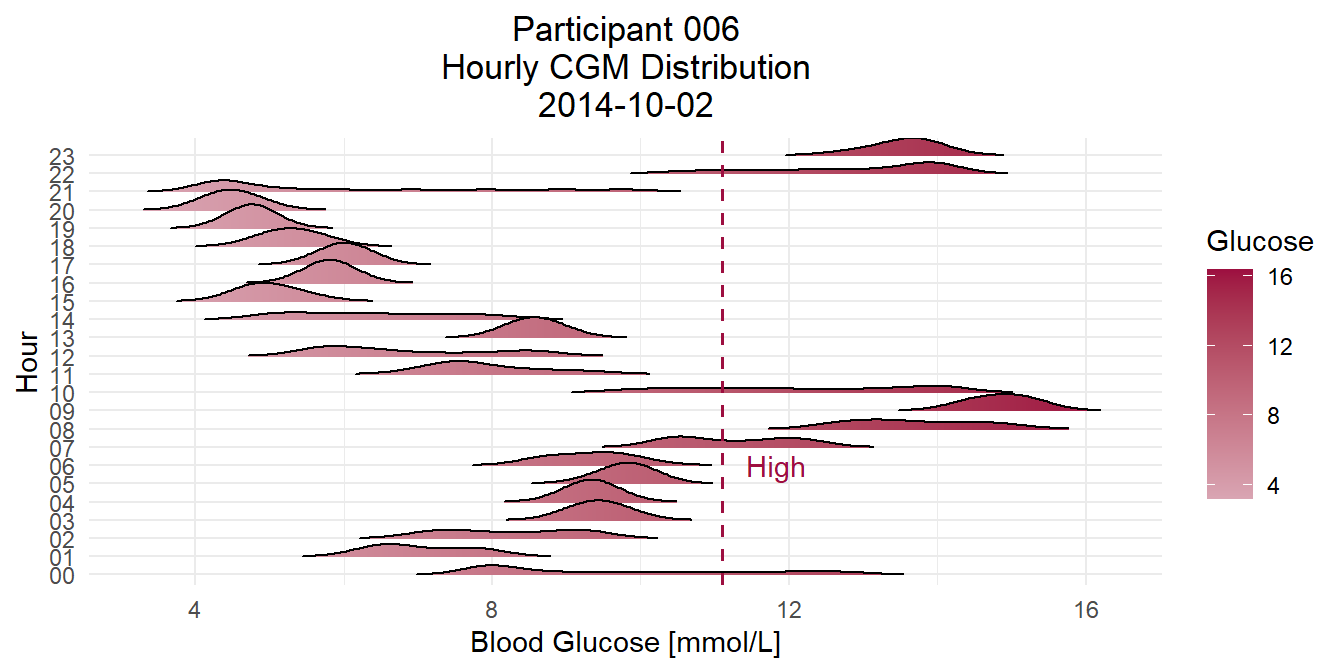
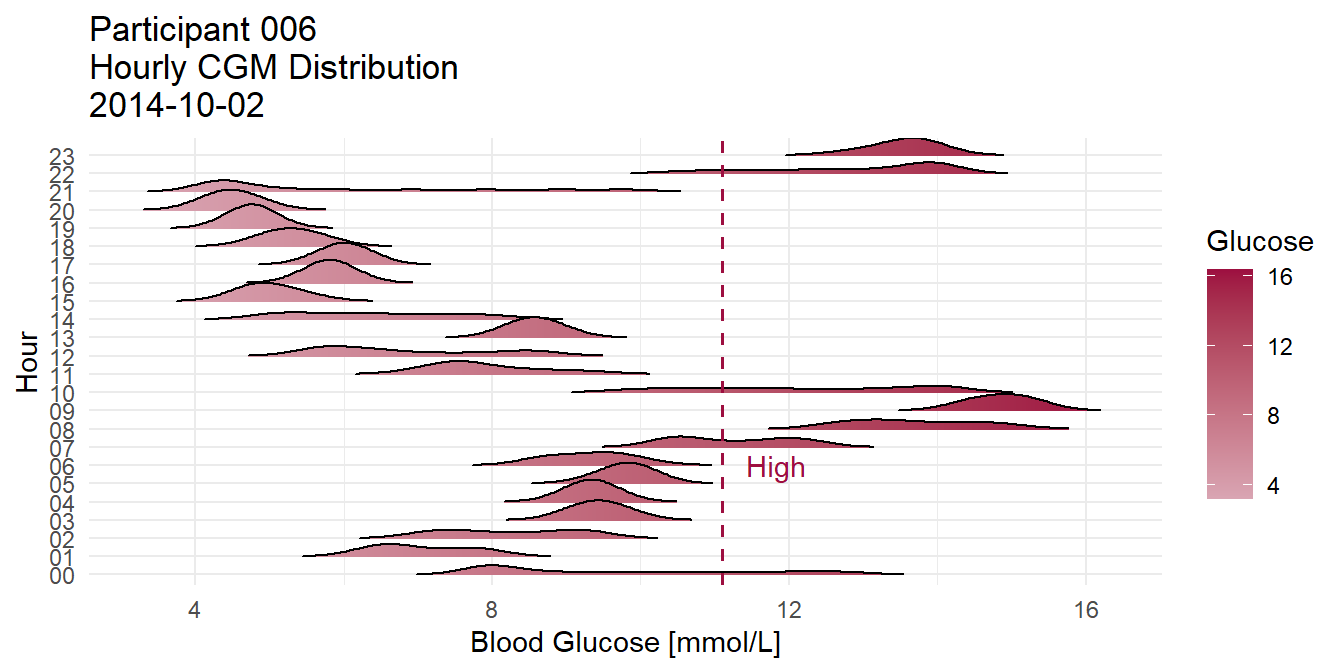
fixed text, titles, breaks

Changed region(s): [[0.0625, 0.0, 0.5938, 0.1875]]

diff --git a/content/post/2020-12-30-data-is-data-are-data-vis/index.html b/content/post/2020-12-30-data-is-data-are-data-vis/index.html
@@ -22,122 +22,45 @@ output:
 <script src="index_files/wordcloud2-binding/wordcloud2.js"></script>
 
 
-<p>This is not be my take on the ‘Data is plural’ vs ‘Data is singular-ish’ debate, instead this is a lighthearted visual exploration of both sides of the argument. This is also my excuse to fill a post with pretty graphs.</p>
-<p>The data set used for the following examples is from <a href="https://www.sciencedirect.com/science/article/pii/S2352914818301059?via%3Dihub#fig4">the open D1NAMO dataset: A multi-modal dataset for research on non-invasive type 1 diabetes management</a> by Fabien Dubosson et al. Data from the study is indexed in this <a href="https://github.com/irinagain/Awesome-CGM/wiki/Dubosson-(2018)">GitHub repo</a>. Dubosson’s study followed 29 individuals, 9 of which with type-1 diabetes. Continuous glucose monitoring was done with IPro2 Professional CGM Sensor for the 9 individuals with type-1 diabetes. The 20 non-diabetic group used the Bayer Contour TX glucose meter. All 29 individuals also wore a Zephyr BioHarness 3 which tracked ECG rhythm from lead I (measuring electrical vectors from right to left across the heart), they also wore an accelerometer and a pressure sensor to measure respiration rate.</p>
+<p>This is my take on the ‘Data is’ vs ‘Data are’ debate, and an excuse to try out different graphs.</p>
+<p>The data set used for the following examples is from <a href="https://www.sciencedirect.com/science/article/pii/S2352914818301059?via%3Dihub">the open D1NAMO dataset: A multi-modal dataset for research on non-invasive type 1 diabetes management</a> by Fabien Dubosson et al. Data from the study is indexed in this <a href="https://github.com/irinagain/Awesome-CGM/wiki/Dubosson-(2018)">GitHub repo</a>. Dubosson’s study followed 29 individuals, 9 of which with type-1 diabetes, for 4 days. Continuous glucose monitoring was done with IPro2 Professional CGM Sensor for the 9 individuals with type-1 diabetes. All 29 individuals wore a Zephyr BioHarness 3 which tracked ECG rhythm from lead I (measuring electrical vectors across the heart), they also wore a pressure sensor to measure respiration rate. During the study participants submitted photos of their meals to dietitians who annotated the foods present and determined the health quality of the meals.</p>
 <p></br><br />
 </br></p>
 <hr />
 <div id="packages-used" class="section level2">
 <h2>Packages Used</h2>
-<pre class="r"><code>library(tidyverse); library(ggplot2); library(magrittr);</code></pre>
-<pre><code>## -- Attaching packages --------------------------------------- tidyverse 1.3.0 --</code></pre>
-<pre><code>## v ggplot2 3.3.3     v purrr   0.3.4
-## v tibble  3.0.4     v dplyr   1.0.2
-## v tidyr   1.1.2     v stringr 1.4.0
-## v readr   1.4.0     v forcats 0.5.0</code></pre>
-<pre><code>## -- Conflicts ------------------------------------------ tidyverse_conflicts() --
-## x dplyr::filter() masks stats::filter()
-## x dplyr::lag()    masks stats::lag()</code></pre>
-<pre><code>## 
-## Attaching package: &#39;magrittr&#39;</code></pre>
-<pre><code>## The following object is masked from &#39;package:purrr&#39;:
-## 
-##     set_names</code></pre>
-<pre><code>## The following object is masked from &#39;package:tidyr&#39;:
-## 
-##     extract</code></pre>
-<pre class="r"><code>library(stringi); library(hms); library(tidytext)</code></pre>
-</div>
-<div id="loading-data" class="section level2">
-<h2>Loading Data</h2>
-<pre class="r"><code>workingDir &lt;- &quot;C:/Users/seand/OneDrive/Documents/D1NAMO/&quot;
-cohorts &lt;- dir(workingDir)  # diabetes_subset, healthy_subset
-
-glucose_df &lt;- tibble()
-insulin_df &lt;- tibble()
-food_nondiabetic_df &lt;- tibble()
-food_diabetic_df &lt;- tibble()
-sensor_df &lt;- tibble()
-for (cohort in cohorts) {
-  participants &lt;- dir(paste0(workingDir,cohort))
-  tmp_cohort_glucose_df &lt;- tibble()
-  if(stri_cmp_eq(cohort, &quot;diabetes_subset&quot;)){ tmp_cohort_insulin_df &lt;- tibble() }
-  if(stri_cmp_eq(cohort, &quot;diabetes_subset&quot;)){ tmp_cohort_food_diabetic_df &lt;- tibble()
-  } else { tmp_cohort_food_nondiabetic_df &lt;- tibble() }
-  
-  tmp_cohort_sensor_df &lt;- tibble()
-  for (participant in participants) {
-    participant_path &lt;- paste0(workingDir,cohort,&quot;/&quot;,participant)
-    # Gather glucose data
-    glucose_path &lt;- paste0(participant_path,&quot;/glucose.csv&quot;)
-    tmp_participant_glucose_df &lt;- read_csv(glucose_path) %&gt;%
-      cbind(participantID = participant, cohortGroup = cohort)
-    tmp_cohort_glucose_df %&lt;&gt;% rbind(tmp_participant_glucose_df)
-    # Gather insulin data
-    if(stri_cmp_eq(cohort, &quot;diabetes_subset&quot;)){
-      insulin_path &lt;- paste0(participant_path,&quot;/insulin.csv&quot;)
-      tmp_participant_insulin_df &lt;- read_csv(insulin_path) %&gt;%
-        cbind(participantID = participant, cohortGroup = cohort)
-      tmp_cohort_insulin_df %&lt;&gt;% rbind(tmp_participant_insulin_df)
-    }
-    # Gather food data
-    food_path &lt;- paste0(participant_path,&quot;/food.csv&quot;)
-    tmp_participant_food_df &lt;- read_csv(food_path) %&gt;%
-      cbind(participantID = participant, cohortGroup = cohort)
-    if(stri_cmp_eq(cohort, &quot;diabetes_subset&quot;)){
-      tmp_cohort_food_diabetic_df %&lt;&gt;% rbind(tmp_participant_food_df)
-    } else { tmp_cohort_food_nondiabetic_df %&lt;&gt;% rbind(tmp_participant_food_df) }
-    # Gather sensor summary data
-    times_sensor_data &lt;- dir(paste0(participant_path,&quot;/sensor_data&quot;))
-    sensor_summary_paths &lt;- c()
-    for (time in times_sensor_data) {
-      sensor_data &lt;- dir(paste0(participant_path,&quot;/sensor_data/&quot;,time))
-      sensor_summary &lt;- sensor_data[which(stri_detect(sensor_data, fixed = &quot;Summary&quot;))]
-      sensor_summary_paths &lt;- c(sensor_summary_paths, 
-                                paste0(participant_path,&quot;/sensor_data/&quot;,
-                                       time,&quot;/&quot;,sensor_summary))
-    }
-    tmp_participant_sensor_df &lt;- tibble()
-    for (path in sensor_summary_paths) { tmp_participant_sensor_df %&lt;&gt;%
-        rbind(read_csv(path)) }
-    tmp_participant_sensor_df %&lt;&gt;% cbind(participantID = participant, cohortGroup = cohort)
-    tmp_cohort_sensor_df %&lt;&gt;% rbind(tmp_participant_sensor_df)
-  }
-  glucose_df %&lt;&gt;% rbind(tmp_cohort_glucose_df)
-  if(stri_cmp_eq(cohort, &quot;diabetes_subset&quot;)){ insulin_df %&lt;&gt;% rbind(tmp_cohort_insulin_df) }
-  if(stri_cmp_eq(cohort, &quot;diabetes_subset&quot;)){
-    food_diabetic_df %&lt;&gt;% rbind(tmp_cohort_food_diabetic_df)
-  } else { food_nondiabetic_df %&lt;&gt;% rbind(tmp_cohort_food_nondiabetic_df) }
-  sensor_df %&lt;&gt;% rbind(tmp_cohort_sensor_df)
-}
-# make date and time col for sensor_df
-sensor_df %&lt;&gt;% mutate(date=as.Date(stri_extract(Time,regex=&quot;^(\\d{2}/\\d{2}/\\d{4})&quot;),
-                                     format = &quot;%d/%m/%y&quot;),
-                     time=parse_hms(stri_extract(Time,regex=&quot;(\\d{2}:\\d{2}:\\d{2})&quot;))) %&gt;%
-  select(-Time)
-# food_nondiabetic_df$calories has values that should be in $description
-index_cal_desc_swap &lt;- !(stri_detect(food_nondiabetic_df$calories,regex=&quot;^\\d+$&quot;) |
-                          is.na(food_nondiabetic_df$calories))
-food_nondiabetic_df$description[index_cal_desc_swap] &lt;- food_nondiabetic_df$calories[index_cal_desc_swap]
-food_nondiabetic_df$calories[index_cal_desc_swap] &lt;- NA
-rm(tmp_cohort_glucose_df,tmp_participant_glucose_df,tmp_cohort_insulin_df,
-   tmp_participant_insulin_df,tmp_cohort_food_diabetic_df,tmp_participant_food_df,
-   tmp_cohort_food_nondiabetic_df,tmp_cohort_sensor_df,tmp_participant_sensor_df)</code></pre>
+<pre class="r"><code>library(tidyverse); library(ggplot2); library(magrittr);
+library(stringi); library(hms); library(tidytext)</code></pre>
 <pre class="r"><code>colorPalette &lt;- c(&#39;#d9a5b3&#39;, &#39;#c6d7eb&#39;, &#39;#1868ae&#39;, &#39;#9ec1b6&#39;, &#39;#9d0f40&#39;, &#39;#e0dab7&#39;)</code></pre>
-<p>This is the <code>insulin_df</code> data table visualized.</p>
+<p></br>
+</br></p>
+<hr />
+</div>
+<div id="all-data-one-dataum" class="section level2">
+<h2>All data, one dat[(a)(um)]</h2>
+<p>The <code>visdat</code> package is a handy way to visualize all data in a table as a bar graph of sorts. Here is the whole <code>insulin_df</code> data table visualized.</p>
 <pre class="r"><code>library(visdat)
 visdat::vis_dat(insulin_df)</code></pre>
 <p><img src="index_files/figure-html/Visdat-1.png" width="672" /></p>
-<p>While this is a single datum from <code>insulin_df</code>…</p>
+<p></br></p>
+<p>Now, here is a single datum from <code>insulin_df</code>…</p>
 <pre class="r"><code>visdat::vis_dat(insulin_df[14,3])</code></pre>
-<p><img src="index_files/figure-html/Visdatum-1.png" width="672" />
-This single, numeric ‘datum’ on its own has no useful qualities. It may be paired with the time of measurement (<code>insulin_df[14,2]</code>) or the participant which it measured (<code>insulin_df[14,6]</code>) or even compared to some other similar datum from a different observation:</p>
-<pre class="r"><code>insulin_df[24,3]</code></pre>
-<pre><code>## # A tibble: 1 x 1
+<p><img src="index_files/figure-html/Visdatum-1.png" width="672" /></p>
+<p></br></p>
+<p>This single, numeric ‘datum’ on its own has no useful qualities. It may be paired with the time of measurement (22:35:00) or the participant ID (001) or even compared to some other similar datum from a different observation:</p>
+<pre class="r"><code>insulin_df[c(14,24),3]</code></pre>
+<pre><code>## # A tibble: 2 x 1
 ##   fast_insulin
 ##          &lt;dbl&gt;
-## 1            4</code></pre>
-<p>To what extent is this datum unit useful on its own?</p>
+## 1            2
+## 2            4</code></pre>
+<p></br>
+</br></p>
+<hr />
+</div>
+<div id="words" class="section level2">
+<h2>Words</h2>
+<p>To what extent is this datum unit useful on its own? How often is the term ‘datum’ used in the wild? Is ‘datum’ important enough to take up space that the word ‘data’ could fulfill?</p>
 <p>This is a word cloud of most frequent words appearing in participants’ meal descriptions. They are grouped by cohort: diabetic and non-diabetic.</p>
 <pre class="r"><code>library(wordcloud2)
 # https://cran.r-project.org/web/packages/wordcloud2/vignettes/wordcloud.html
@@ -157,15 +80,25 @@ topFoods(food_diabetic_df, colorPalette[3], colorPalette[6])</code></pre>
 <pre class="r"><code>topFoods(food_nondiabetic_df, colorPalette[5], colorPalette[4])</code></pre>
 <div id="htmlwidget-2" style="width:672px;height:480px;" class="wordcloud2 html-widget"></div>
 <script type="application/json" data-for="htmlwidget-2">{"x":{"word":["bread","chocolate","coffee","milk","cheese","cake","salad","tomatoes","carrots","juice","cereal","rice","butter","chicken","lettuce","pasta","orange","banana","ham","cookie","green","yogurt","beans","potatoes","tomato","cream","pizza","sauce","soup","apple","sugar","sandwich","bar","cookies","fried","meat","red","salmon","tea","jam","oil","brocoli","grapes","lasagna","mandarin","pepper","toast","crackers","dried","eggs","nuts","strawberry","cous","cucumber","dressing","goat","madeleine","maria","nutella","olive","peas","peppers","proteins","sausage","shaker","vanilla","white","avocado","carbonara","carrot","hamburguer","olives","onions","pork","salami","spinach","abricot","bacon","champignon","chinese","chorizo","coca","corn","cottage","courgette","croissant","egg","endives","frites","glass","hard","panallet","pear","pesto","protein","ricotta","rye","semi","shake","smoke","apricots","beef","cabbage","cola","cornflakes","cup","cupcake","de","delices","energy","fennel","fromage","fruit","fruits","grapefruit","hummus","ice","jambon","ketchup","kiwi","marrons","mini","mozarella","mozzarella","oat","parmesan","plum","smash","spatzli","tomate","tortellinis","wheat","yogourt","almonds","asiago","baked","balisto","ball","beer","beet","blueberries","bolognes","breast","camembert","candies","chalet","chantilly","chou","coffe","coliflower","comercial","courgettes","crougette","croutons","drink","finger","fish","flan","fondue","fret","gnocchis","gnocci","grain","greek","kägi","kat","kinder","kit","kitkat","mandarins","mango","mousse","omelett","pain","pepperswith","philadelphia","pie","pingui","plant","potaotes","rã","radish","roulade","spaguetti","square","squares","steamed","sti","strawberries","surimi","tuna","vinegar","waffle","watercress","à","apéro","artichoke","artichokes","asigao","balls","barre","bean","beers","berliner","beurre","biscuits","black","boiled","bounty","branche","breakfast","brie","cana","céréales","cereall","chestnuts","chickpeas","chili","chips","choucroute","coconut","coverage","cramble","cranberries","creme","crème","crepe","crêpes","curry","dark","delice","dessert","donner","duchess","duchesspotatoes","eclair","filet","financercake","flat","forest","fuet","gratin","gruyer","gruyere","herbs","honey","icecream","information","kagi","kaki","kebab","la","le","letter","limoncello","loaf","loempia","lomo","lorraine","luganiga","machego","madeleines","mais","manchego","mandarine","mashed","matcha","mayonaise","meatballs","mermelade","miel","miso","mix","mixed","natural","noodles","nougat","nuggets","oreo","pancakes","parfait","pâtes","peach","piece","pizzas","pommes","porc","post","potatoe","purée","quiche","quinoa","raspberry","raviolis","raw","roesti","rouge","salty","sausages","seaweed","slice","slide","snack","snacks","soda","spaetzle","strudel","sweet","tartlet","tasting","tiramisu","tortelliniswith","tortillas","vegetarian","vermicelles","waffel","wakame","wellington","whey","workout","yellow"],"freq":[53,43,43,39,34,24,22,22,21,21,19,19,18,18,18,18,17,16,16,15,15,15,14,14,14,13,13,13,13,12,12,11,10,10,10,10,10,10,10,9,9,8,8,8,8,8,8,7,7,7,7,7,6,6,6,6,6,6,6,6,6,6,6,6,6,6,6,5,5,5,5,5,5,5,5,5,4,4,4,4,4,4,4,4,4,4,4,4,4,4,4,4,4,4,4,4,4,4,4,4,3,3,3,3,3,3,3,3,3,3,3,3,3,3,3,3,3,3,3,3,3,3,3,3,3,3,3,3,3,3,3,3,3,2,2,2,2,2,2,2,2,2,2,2,2,2,2,2,2,2,2,2,2,2,2,2,2,2,2,2,2,2,2,2,2,2,2,2,2,2,2,2,2,2,2,2,2,2,2,2,2,2,2,2,2,2,2,2,2,2,2,2,2,2,1,1,1,1,1,1,1,1,1,1,1,1,1,1,1,1,1,1,1,1,1,1,1,1,1,1,1,1,1,1,1,1,1,1,1,1,1,1,1,1,1,1,1,1,1,1,1,1,1,1,1,1,1,1,1,1,1,1,1,1,1,1,1,1,1,1,1,1,1,1,1,1,1,1,1,1,1,1,1,1,1,1,1,1,1,1,1,1,1,1,1,1,1,1,1,1,1,1,1,1,1,1,1,1,1,1,1,1,1,1,1,1,1,1,1,1,1,1,1,1,1,1,1,1,1,1,1],"fontFamily":"Segoe UI","fontWeight":"bold","color":["#9d0f40","#9d0f40","#9d0f40","#9d0f40","#9d0f40","#9d0f40","#9d0f40","#9d0f40","#9d0f40","#9d0f40","#9ec1b6","#9ec1b6","#9ec1b6","#9ec1b6","#9ec1b6","#9ec1b6","#9ec1b6","#9ec1b6","#9ec1b6","#9ec1b6","#9ec1b6","#9ec1b6","#9ec1b6","#9ec1b6","#9ec1b6","#9ec1b6","#9ec1b6","#9ec1b6","#9ec1b6","#9ec1b6","#9ec1b6","#9ec1b6","#9ec1b6","#9ec1b6","#9ec1b6","#9ec1b6","#9ec1b6","#9ec1b6","#9ec1b6","#9ec1b6","#9ec1b6","#9ec1b6","#9ec1b6","#9ec1b6","#9ec1b6","#9ec1b6","#9ec1b6","#9ec1b6","#9ec1b6","#9ec1b6","#9ec1b6","#9ec1b6","#9ec1b6","#9ec1b6","#9ec1b6","#9ec1b6","#9ec1b6","#9ec1b6","#9ec1b6","#9ec1b6","#9ec1b6","#9ec1b6","#9ec1b6","#9ec1b6","#9ec1b6","#9ec1b6","#9ec1b6","#9ec1b6","#9ec1b6","#9ec1b6","#9ec1b6","#9ec1b6","#9ec1b6","#9ec1b6","#9ec1b6","#9ec1b6","#9ec1b6","#9ec1b6","#9ec1b6","#9ec1b6","#9ec1b6","#9ec1b6","#9ec1b6","#9ec1b6","#9ec1b6","#9ec1b6","#9ec1b6","#9ec1b6","#9ec1b6","#9ec1b6","#9ec1b6","#9ec1b6","#9ec1b6","#9ec1b6","#9ec1b6","#9ec1b6","#9ec1b6","#9ec1b6","#9ec1b6","#9ec1b6","#9ec1b6","#9ec1b6","#9ec1b6","#9ec1b6","#9ec1b6","#9ec1b6","#9ec1b6","#9ec1b6","#9ec1b6","#9ec1b6","#9ec1b6","#9ec1b6","#9ec1b6","#9ec1b6","#9ec1b6","#9ec1b6","#9ec1b6","#9ec1b6","#9ec1b6","#9ec1b6","#9ec1b6","#9ec1b6","#9ec1b6","#9ec1b6","#9ec1b6","#9ec1b6","#9ec1b6","#9ec1b6","#9ec1b6","#9ec1b6","#9ec1b6","#9ec1b6","#9ec1b6","#9ec1b6","#9ec1b6","#9ec1b6","#9ec1b6","#9ec1b6","#9ec1b6","#9ec1b6","#9ec1b6","#9ec1b6","#9ec1b6","#9ec1b6","#9ec1b6","#9ec1b6","#9ec1b6","#9ec1b6","#9ec1b6","#9ec1b6","#9ec1b6","#9ec1b6","#9ec1b6","#9ec1b6","#9ec1b6","#9ec1b6","#9ec1b6","#9ec1b6","#9ec1b6","#9ec1b6","#9ec1b6","#9ec1b6","#9ec1b6","#9ec1b6","#9ec1b6","#9ec1b6","#9ec1b6","#9ec1b6","#9ec1b6","#9ec1b6","#9ec1b6","#9ec1b6","#9ec1b6","#9ec1b6","#9ec1b6","#9ec1b6","#9ec1b6","#9ec1b6","#9ec1b6","#9ec1b6","#9ec1b6","#9ec1b6","#9ec1b6","#9ec1b6","#9ec1b6","#9ec1b6","#9ec1b6","#9ec1b6","#9ec1b6","#9ec1b6","#9ec1b6","#9ec1b6","#9ec1b6","#9ec1b6","#9ec1b6","#9ec1b6","#9ec1b6","#9ec1b6","#9ec1b6","#9ec1b6","#9ec1b6","#9ec1b6","#9ec1b6","#9ec1b6","#9ec1b6","#9ec1b6","#9ec1b6","#9ec1b6","#9ec1b6","#9ec1b6","#9ec1b6","#9ec1b6","#9ec1b6","#9ec1b6","#9ec1b6","#9ec1b6","#9ec1b6","#9ec1b6","#9ec1b6","#9ec1b6","#9ec1b6","#9ec1b6","#9ec1b6","#9ec1b6","#9ec1b6","#9ec1b6","#9ec1b6","#9ec1b6","#9ec1b6","#9ec1b6","#9ec1b6","#9ec1b6","#9ec1b6","#9ec1b6","#9ec1b6","#9ec1b6","#9ec1b6","#9ec1b6","#9ec1b6","#9ec1b6","#9ec1b6","#9ec1b6","#9ec1b6","#9ec1b6","#9ec1b6","#9ec1b6","#9ec1b6","#9ec1b6","#9ec1b6","#9ec1b6","#9ec1b6","#9ec1b6","#9ec1b6","#9ec1b6","#9ec1b6","#9ec1b6","#9ec1b6","#9ec1b6","#9ec1b6","#9ec1b6","#9ec1b6","#9ec1b6","#9ec1b6","#9ec1b6","#9ec1b6","#9ec1b6","#9ec1b6","#9ec1b6","#9ec1b6","#9ec1b6","#9ec1b6","#9ec1b6","#9ec1b6","#9ec1b6","#9ec1b6","#9ec1b6","#9ec1b6","#9ec1b6","#9ec1b6","#9ec1b6","#9ec1b6","#9ec1b6","#9ec1b6","#9ec1b6","#9ec1b6","#9ec1b6","#9ec1b6","#9ec1b6","#9ec1b6","#9ec1b6","#9ec1b6","#9ec1b6","#9ec1b6","#9ec1b6","#9ec1b6","#9ec1b6","#9ec1b6","#9ec1b6","#9ec1b6","#9ec1b6","#9ec1b6","#9ec1b6","#9ec1b6","#9ec1b6","#9ec1b6","#9ec1b6","#9ec1b6","#9ec1b6","#9ec1b6","#9ec1b6","#9ec1b6","#9ec1b6","#9ec1b6","#9ec1b6","#9ec1b6","#9ec1b6","#9ec1b6","#9ec1b6","#9ec1b6","#9ec1b6","#9ec1b6"],"minSize":0,"weightFactor":3.39622641509434,"backgroundColor":"white","gridSize":0,"minRotation":-0.785398163397448,"maxRotation":0.785398163397448,"shuffle":true,"rotateRatio":0.4,"shape":"circle","ellipticity":0.65,"figBase64":null,"hover":null},"evals":[],"jsHooks":[]}</script>
+<p></br>
+&lt;/br?</p>
+<hr />
 </div>
 <div id="lingva-latina" class="section level2">
 <h2>LINGVA LATINA</h2>
-<p>Speaking of words, one may argue to use data/datum over data/data by citing Latin grammar rules for second-declension neuter nouns. Using data/datum in the <a href="https://classics.osu.edu/Undergraduate-Studies/Latin-Program/Grammar/Cases/nominative-case">nominative</a> or <a href="https://classics.osu.edu/Undergraduate-Studies/Latin-Program/Grammar/Cases/accusative-case">accusative</a> case would make <a href="https://www.poetryintranslation.com/PITBR/Latin/HoraceSatiresBkISatX.php#anchor_Toc98155847">Horace proud</a> (or <a href="https://classics.osu.edu/Undergraduate-Studies/Latin-Program/Grammar/Cases/latin-case">vocative</a>, assuming you talk to your data). But what of the <a href="https://classics.osu.edu/Undergraduate-Studies/Latin-Program/Grammar/Cases/genitive-case">genative</a> or the <a href="https://classics.osu.edu/Undergraduate-Studies/Latin-Program/Grammar/Cases/ablative-case-latin">ablative</a> cases? Is this rule the same for all of my datī or just one of my datōrum? Does one also gather information from datō or a single datīs? Is this an exaggeration? I prefer to leave no hair unsplit, if it is my vocation to split them.</p>
+<p>Speaking of words, one may argue to use data/datum over data/data by citing Latin grammar rules for second-declension neuter nouns. Using data/datum correctly in the <a href="https://classics.osu.edu/Undergraduate-Studies/Latin-Program/Grammar/Cases/nominative-case">nominative</a> or <a href="https://classics.osu.edu/Undergraduate-Studies/Latin-Program/Grammar/Cases/accusative-case">accusative</a> case would make <a href="https://www.poetryintranslation.com/PITBR/Latin/HoraceSatiresBkISatX.php#anchor_Toc98155847">Horace proud</a> (or <a href="https://classics.osu.edu/Undergraduate-Studies/Latin-Program/Grammar/Cases/latin-case">vocative</a>, assuming you talk to your data). But what of the <a href="https://classics.osu.edu/Undergraduate-Studies/Latin-Program/Grammar/Cases/genitive-case">genative</a> or the <a href="https://classics.osu.edu/Undergraduate-Studies/Latin-Program/Grammar/Cases/ablative-case-latin">ablative</a> cases? Is this rule the same for all of my datī or just one of my datōrum? Does one also gather information from datō or a single datīs?<br />
+Is this an exaggeration of the Latin argument? I prefer to leave no hair unsplit, if it is my vocation to split them.</p>
 <p>The Latin argument was a fun way to reminisce back to my high school Latin classes, however I think the most damning argument lies in the English language. Specifically ‘Academic English’, the Dr. Frankenstein of ghastly words. Consider <a href="https://www.maa.org/press/periodicals/convergence/math-origins-eigenvectors-and-eigenvalues">eigenvalue</a>, <a href="https://en.wiktionary.org/wiki/neurotransmitter">neurotransmitter</a>, <a href="https://www.thefreedictionary.com/words-containing-ology">Sociology</a>, <a href="https://www.merriam-webster.com/words-at-play/the-many-plurals-of-octopus-octopi-octopuses-octopodes">octopus</a> and <a href="https://en.wikipedia.org/wiki/Hybrid_word">many more</a>. As a word, data has been claimed by English. As English speakers, it is up to us to use data/datum however we please until a consensus is reached.</p>
+<p></br>
+</br></p>
+<hr />
+</div>
+<div id="tf-idf" class="section level2">
+<h2>TF-IDF</h2>
 <p>But what do individual words really mean? Out of the context of a sentence, do they tell use anything?
-Term Frequency (TF) and Inverse Document Frequency (IDF) are simple statistics that help illuminate which words are most specific to certain documents. TF is straight forward, the total number of times a term appears divided by the number of unique terms. IDF is the number of documents divided by the number of documents in which each term appears, usually this proportion is log or ln scaled. For example, if we are looking at 5 essays and we want to find the IDF of “potato”, and we know that the term “potato” appears in 3 of the 5 essays:
-<span class="math display">\[IDF(&quot;potato&quot;) = ln(numberOfDocs / numberOfDocsWithPotato) = ln(5/3)\]</span></p>
-<p>Once each terms’ TF and IDF are calculated, they are multiplied together to make a weight or score of how specific each term is, compared to the rest of the terms. A term like “potato” is rather specific, so it should have a higher TF-IDF than the term “and”.</p>
+Term Frequency (TF) and Inverse Document Frequency (IDF) are simple statistics that help illuminate which words are most specific to certain documents. TF is straight forward, the total number of times a term appears divided by the number of unique terms. IDF is the total number of documents divided by the number of documents in which each term appears, usually this proportion is log scaled. For example, if we are looking at 5 essays and we want to find the IDF of “potato”, and we know that the term “potato” appears in 3 of the 5 essays:
+<span class="math inline">\(IDF(potato) = \log(\frac{numberOfDocs}{numberOfDocsWithPotato}) = \log(\frac{5}{3})\)</span></p>
+<p>Once each terms’ TF and IDF are calculated, they are multiplied together to make a score of how specific each term is, compared to the rest of the terms. A term like “potato” is rather specific, so it should have a higher TF-IDF than the term “and”.</p>
 <p>Rather than grouping IDF by ‘document’ I grouped the words in participants’ meal description by the <code>quality</code> of the meal assigned by a dietitian.</p>
 <pre class="r"><code># TF-IDF
 tfidf &lt;- function(df, group){
@@ -205,20 +138,26 @@ tfidf_hist &lt;- function(df, x, fill, binwidth, color1, color2){
     geom_histogram(binwidth = binwidth, color = &#39;white&#39;) +
     scale_fill_manual(values = c(color1, color2))
 }</code></pre>
-<p>This shows term frequency overylayed by the IDF upper and lower quantiles. The majority of TF is towards 0.00 becasue most terms appear infrequently. IDF upper and lower quantiles are spread through the distribution of TF.</p>
+<p></br></p>
+<p>This histogram shows term frequency overylayed by the IDF upper and lower quantiles. The majority of TF is around 0.00 because most terms appear infrequently. IDF upper and lower quantiles are spread through the distribution of TF.</p>
 <pre class="r"><code>tfidf_hist(tfidf_quality, `tf`, `idfQuantile`, 0.005, colorPalette[1], colorPalette[6])</code></pre>
 <p><img src="index_files/figure-html/tf_idfQuantile_Food_Per_Cohort-1.png" width="672" /></p>
-<p>This shows IDF overlayed by TF upper and lower quantiles. There are three IDF spikes since each term can only appear in one, two, or three <code>quality</code> groups.
-<span class="math inline">\(ln(3/3)\)</span> or <span class="math inline">\(ln(3/2)\)</span> or <span class="math inline">\(ln(3/1)\)</span>
-Most terms appear in only one document, with a majority of these terms in the lower TF quantile.</p>
+<p></br></p>
+<p>This histogram shows IDF overlayed by TF upper and lower quantiles. There are three IDF spikes since each term can only appear in one, two, or three <code>quality</code> groups.</p>
+<p><span class="math inline">\(\log(\frac{3}{3})=0\)</span> or <span class="math inline">\(\log(\frac{3}{2})=0.176\)</span> or <span class="math inline">\(\log(\frac{3}{1})=0.477\)</span></p>
+<p>Most terms appear in only one document, with a majority of these terms in the lower TF quantile.</p>
 <pre class="r"><code>tfidf_hist(tfidf_quality, `idf`, `tfQuantile`, 0.08, colorPalette[4], colorPalette[2])</code></pre>
 <p><img src="index_files/figure-html/idf_tfQuantile_Food_Per_Cohort-1.png" width="672" /></p>
-<p>This shows TF-IDF overlayed by TF upper and lower quantiles. Few terms have TF-IDF above 0.02 and none of the lower quantile TF terms have TF-IDF scores above 0.01</p>
+<p></br></p>
+<p>This shows TF-IDF overlaid by TF upper and lower quantiles. Few terms have TF-IDF above 0.02 and none of the lower quantile TF terms have TF-IDF scores above 0.01</p>
 <pre class="r"><code>tfidf_hist(tfidf_quality, `tf_idf`, `tfQuantile`, 0.002, colorPalette[4], colorPalette[2])</code></pre>
 <p><img src="index_files/figure-html/tfidf_tfQuantile_Food_Per_Cohort-1.png" width="672" /></p>
+<p></br></p>
 <p>This shows TF-IDF overlayed by IDF upper and lower quantiles. Upper quantile IDF terms are shifted above an TF-IDF score of 0.005. There are still some lower quantile IDF terms with the highest TF-IDF scores above 0.2, showing that IDF alone would lose some terms that TF-IDF selects.</p>
 <pre class="r"><code>tfidf_hist(tfidf_quality, `tf_idf`, `idfQuantile`, 0.002, colorPalette[1], colorPalette[6])</code></pre>
 <p><img src="index_files/figure-html/tfidf_idfQuantile_Food_Per_Cohort-1.png" width="672" /></p>
+<p></br>
+</br></p>
 <p>Here is a treemap showing the top TF-IDF terms that are explored above. They are grouped by diabetic and non-diabetic cohorts.</p>
 <pre class="r"><code>library(treemap)
 # tree map or mosaic map
@@ -234,14 +173,16 @@ mosaic &lt;- function(df, group, plotTitle){
 }
 food_diabetic_tfidf&lt;- tfidf(food_diabetic_df, &quot;quality&quot;)
 food_nondiabetic_tfidf&lt;- tfidf(food_nondiabetic_df, &quot;quality&quot;)</code></pre>
+<p></br></p>
 <p>Diabetic Cohort</p>
 <pre class="r"><code>mosaic(food_diabetic_tfidf, &quot;quality&quot;, &quot;TF-IDF&quot;)</code></pre>
 <p><img src="index_files/figure-html/Treemap_Diabetic_Food_Per_Cohort-1.png" width="672" /></p>
+<p></br></p>
 <p>Non Diabetic Cohort</p>
 <pre class="r"><code>mosaic(food_nondiabetic_tfidf, &quot;quality&quot;, &quot;TF-IDF&quot;)</code></pre>
 <p><img src="index_files/figure-html/Treemap_NonDiabetic_Food_Per_Cohort-1.png" width="672" /></p>
-<p>There were only 9 diabetic participants and 20 non-diabetic participants. Most of the grouped terms make sense, cookies - low quality, strawberry - medium quality, chapeignon - good quality? I guess it is important to note that this study took place in the Swiss town Vevey.</p>
-<p>This shows the percent of meals that are high, medium, or low quality grouped by cohort. The diabetic participants have type-1 diabetes, which likely influences the amount of low quality food they eat.</p>
+<p>There were only 9 diabetic participants and 20 non-diabetic participants. Most of the grouped terms make sense: cookies - low quality, strawberry - medium quality, chapeignon - good quality? It might be important to note that this study took place in the Swiss town Vevey.</p>
+<p>This shows the percent of meals that are high, medium, or low quality grouped by cohort.</p>
 <pre class="r"><code># amount of meals for each quality, per cohort
 foodQualityMatrix &lt;- matrix(c(count(food_nondiabetic_df, quality)$n,
                               count(food_diabetic_df, quality)$n), ncol = 2)
@@ -265,9 +206,10 @@ apply(foodQualityMatrix, 2, function(x){x*100/sum(x)}) %&gt;%
 </div>
 <div id="data-is-like-water" class="section level2">
 <h2>Data is like water</h2>
-<p>Returning to data/datum/datīs.
-When I think of data, I think of distributions. Much of the data that I am interested in is big, large, or massive. When data is the size of a lake, I am not that interested in one particular datum molecule. The sensor data from this study has 212627708 mols of data, or data points, or datum. Included in the sensor data are 5595466 heart rate and breathing rate measurements. The continuous glucose monitor (CGM) data is 8691 rows long. Only the diabetic cohort had CGM monitors.</p>
-<p>This shows the distributions of Continuous Glucose Monitor (CGM) Measurements for all 9 diabetic participants.</p>
+<p>Returning to data/datum/datīs.</p>
+<p>When I think of data, I think of flow, volume, and distribution. Much of the data that I am interested in is big, large, or massive. When data is the size of a lake, I am not that interested in one particular datum molecule. The sensor data from this study has 212627708 mols of data, or data points, or datum. Like water, I think that the unit of measurement for data is arbitrary. One unit of water can be one molecule, or one cc, or one gallon. In the same way I think that one unit of data is an arbitrary measurement. It could be one triplet, one observation (row), or one set.</p>
+<p>Included in the sensor data are 5595466 heart rate (HR) measurements, and the same amount of respiration rate (BR) measurements. The continuous glucose monitor (CGM) data is 8691 rows long. Only the diabetic cohort had CGM monitors.</p>
+<p>This shows the distributions of CGM Measurements for all 9 diabetic participants:</p>
 <pre class="r"><code>glucose_df %&gt;% filter(type == &quot;cgm&quot;) %&gt;% ggplot(aes(x=participantID, y=glucose)) +
   geom_violin(trim = FALSE, fill=colorPalette[2], color=colorPalette[3]) +
   geom_boxplot(width=0.06, fill=colorPalette[1]) +
@@ -278,9 +220,12 @@ When I think of data, I think of distributions. Much of the data that I am inter
   theme_minimal() +
   theme(plot.title = element_text(hjust = 0.5))</code></pre>
 <p><img src="index_files/figure-html/Violen_Glucose_Cohort-1.png" width="672" /></p>
-<p>This shows the distribution of participant 006 CGM, heart rate, and breathing rate on 2014-10-02.</p>
+<p></br></p>
+<p>Distributions are great, lets try some more. The next three figures show the distributions of CGM, heart rate, and breathing rate on 2014-10-02 for participant 006.</p>
 <pre class="r"><code>library(ggridges)
 # https://cran.r-project.org/web/packages/ggridges/vignettes/introduction.html
+
+# CGM
 glucose_df %&gt;%
   filter(type == &quot;cgm&quot;, participantID == &quot;006&quot;, date == unique(date)[2]) %&gt;%
   mutate(time=stri_extract(as.character(time),regex=&quot;^(\\d{2})&quot;)) %&gt;% 
@@ -291,8 +236,7 @@ glucose_df %&gt;%
   ggtitle(&#39;Participant 006\nHourly CGM Distribution\n2014-10-02&#39;) +
   geom_vline(xintercept=11.1, linetype=&#39;dashed&#39;, color=colorPalette[5], size=0.6) +
   annotate(&quot;text&quot;, x=11.1, y=&quot;06&quot;, label=&quot;High&quot;, color=colorPalette[5], hjust=-0.4) +
-  theme_minimal() +
-  theme(plot.title = element_text(hjust = 0.5))</code></pre>
+  theme_minimal()</code></pre>
 <p><img src="index_files/figure-html/Ridgeline_CGM-1.png" width="672" /></p>
 <pre class="r"><code># Heart Rate
 sensor_df %&gt;%
@@ -320,7 +264,9 @@ sensor_df %&gt;%
   ggtitle(&quot;Participant 006\nHourly Breathing Rate Distribution\n2014-10-02&quot;) +
   theme_minimal()</code></pre>
 <p><img src="index_files/figure-html/Ridgeline_CGM-3.png" width="672" /></p>
-<p>While exploring time series, here is an uncommon type of graph: the radar graph. Radar graphs, aka spider graphs, are used in some areas of Psychology and Medicine with categorical data. Some individuals seem to like them since they can display multiple correlated categories in a small space. I personally think that there are better options to display categorical data, however radar graphs could become useful with continuous cyclical or seasonal data. Here is an example of the CGM of the same participant (006) on 2014-10-02.</p>
+<p></br>
+</br></p>
+<p>While exploring time series, here is an uncommon type of graph: the radar graph. Radar graphs, aka spider graphs, are used in some areas of Psychology and Medicine with categorical data. Some individuals like them since they can display multiple correlated categories in a small space. I personally think that there are better options to display related categorical data, however radar graphs could become useful with continuous cyclical or seasonal data. Here is an example of the CGM of the same participant (006) on 2014-10-02.</p>
 <pre class="r"><code>library(fmsb)
 # https://cran.r-project.org/web/packages/fmsb/fmsb.pdf
 # radar cgm for one individual
@@ -339,13 +285,13 @@ rbind(
                  axislabcol=colorPalette[5], caxislabels=seq(4,16,4), vlcex=0.8,
                  title = &quot;Participant 006\nHourly Mean Glucose\n2014-10-02&quot;
                  )</code></pre>
-<p><img src="index_files/figure-html/Radar_Single_Participant_CGM-1.png" width="672" />
-Few R packages exist for generating spider graphs, unfortunately I could not find a package that allows overlapping lines. With overlapping lines these graphs could become useful to compare each cycle or season of timeseries data.</p>
+<p><img src="index_files/figure-html/Radar_Single_Participant_CGM-1.png" width="672" /></p>
+<p>Few R packages exist for generating spider graphs, unfortunately I could not find a package that allows overlapping lines. With overlapping lines these graphs could be a great way to compare each cycle or season of time series data more intuitively than a line graph.</p>
 <p></br><br />
 </br></p>
 <hr />
 </div>
 <div id="conclusion" class="section level2">
 <h2>Conclusion</h2>
-<p>If you were not convinced by my hair splitting Latin argument, or by my Frankenstein argument, or by my ‘data is like water’ argument, then I hope that you at least enjoyed my data vis.</p>
+<p>If you were not convinced by the hair splitting (migraine inducing) Latin argument, or by the Frankenstein argument, or by the ‘data is like water’ argument, then I hope that you at least enjoyed this data vis.</p>
 </div>
